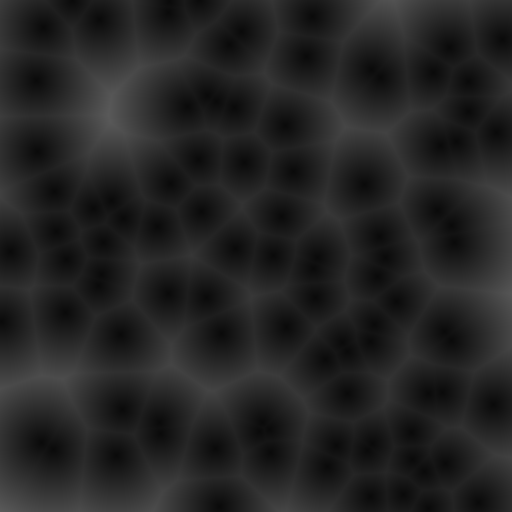
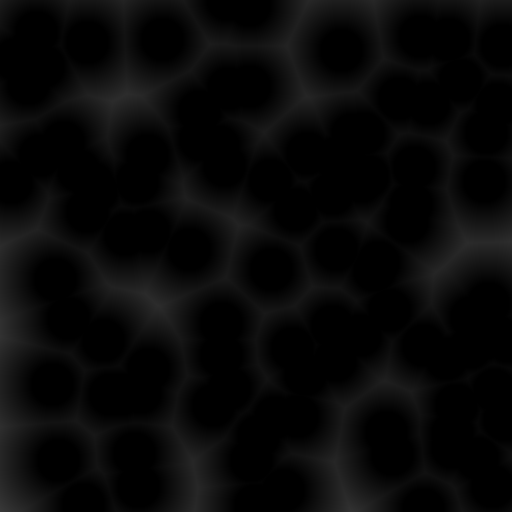
fix bug and add functionality to example file

diff --git a/voronoi.py b/voronoi.py
@@ -1,3 +1,4 @@
+# %% 
 from functools import reduce
 
 import random
@@ -9,9 +10,9 @@ logger().setLevel(logging.CRITICAL)
 
 with Context((512, 512)) as context:
     points = [(random.randint(0, 512), random.randint(0, 512)) for _ in range(100)]
-    discs = [disc(point, -10) for point in points]
+    discs = [disc(point, 20) for point in points]
 
-    combined_discs = reduce(lambda x, y: x.union(y), discs)
+    combined_discs = reduce(lambda x, y: x | y, discs)
     combined_discs.save("voronoi.png")
 
     filled = combined_discs.fill((1, 1, 1, 1), (0.1, 0.1, 0.1, 1.0), inflate=25, inner=0, outer=50)

diff --git a/framework/core/core.py b/framework/core/core.py
@@ -295,13 +295,13 @@ class SDFTexture:
         decrease_tex_registry()
 
     def __or__(self, other):
-        self.union(other)
+        return self.union(other)
 
     def __and__(self, other):
-        self.intersection(other)
+        return self.intersection(other)
 
     def __sub__(self, other):
-        self.subtract(other)
+        return self.subtract(other)
 
     def _check_type(self, obj):
         if not type(self) == type(obj):
